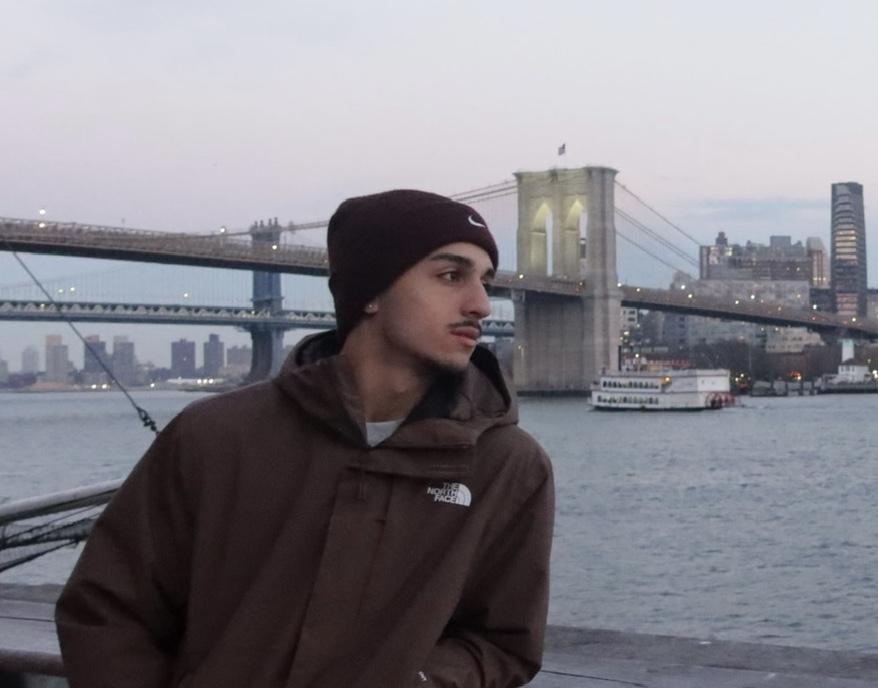
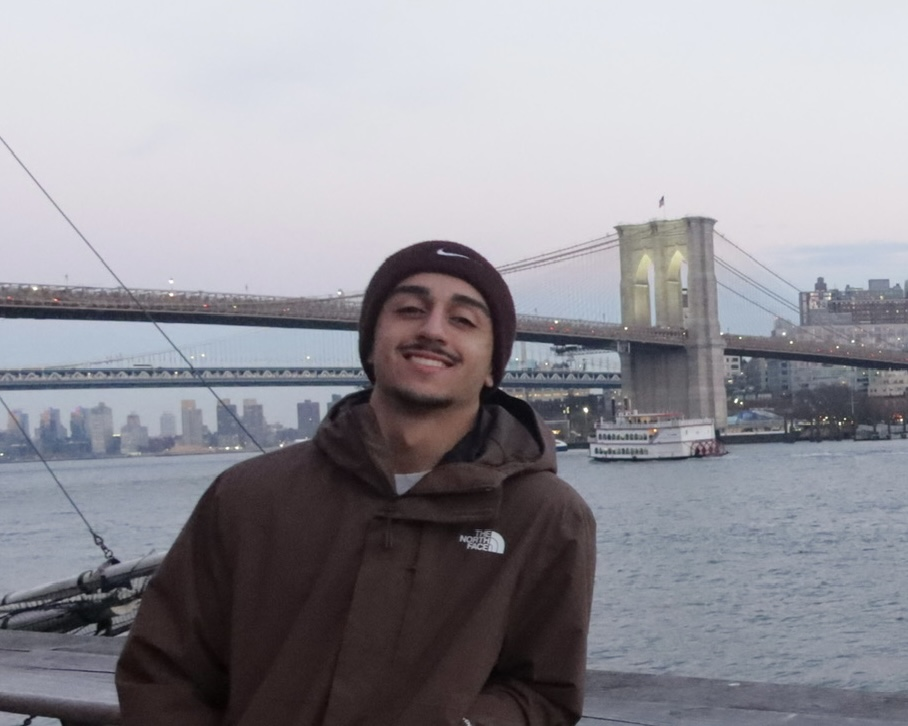
Small changes (updated Resume, portrait, and about me section)

diff --git a/src/views/AboutView.jsx b/src/views/AboutView.jsx
@@ -5,10 +5,10 @@ const AboutView = () => (
     <SectionTitle>Behind the Code</SectionTitle>
     <div className="bg-white dark:bg-gray-800 rounded-3xl shadow-2xl p-8 md:p-12 transition-colors duration-500 animate-fade-in delay-200">
       <div className="space-y-8 text-lg dark:text-gray-300 text-gray-700">
-        <p className="text-xl font-mono border-l-4 pl-4">
-          "The intelligent man is always learning, the wise man is always
-          unlearning" - <b>Joseph Nguyen</b>
+        <p className="text-xl font-mono dark:text-gray-200 text-center">
+          Live life with love
         </p>
+        <div className="pt-6 border-t dark:border-gray-700 border-gray-100 text-center"></div>
         <p>
           My core focus right now is deepening my expertise in modern web
           technologies, particularly the React ecosystem, and understanding
@@ -19,11 +19,17 @@ const AboutView = () => (
           I’m eager to learn new tools and technologies to bring creative ideas
           to life.
         </p>
-        <div className="pt-6 border-t dark:border-gray-700 border-gray-100 text-center">
-          <p className="text-xl font-mono dark:text-gray-200">
-            Live life with love
-          </p>
-        </div>
+        <p>
+          I’m studying Computer Science at the University of Kentucky and plan
+          to graduate in fall of 2026. Outside of programming, I spend most of
+          my time working out, playing the piano, and getting lost in good video
+          games or good books. I like learning new things, staying active, and
+          finding small ways to grow a little every day.
+        </p>
+        <p className="text-xl font-mono border-l-4 pl-4">
+          "The intelligent man is always learning, the wise man is always
+          unlearning" - <b>Joseph Nguyen</b>
+        </p>
       </div>
     </div>
   </div>

diff --git a/src/data/projects.js b/src/data/projects.js
@@ -15,7 +15,7 @@ export const INITIAL_PROJECTS = [
   },
   {
     id: 2,
-    title: "Modern Portfolio Site",
+    title: "My Portfolio",
     description:
       "The very site you are viewing, built with a focus on dark/light mode and modern, responsive design principles.",
     tech: ["React.js", "Tailwind CSS", "JavaScript"],
@@ -24,7 +24,7 @@ export const INITIAL_PROJECTS = [
   },
   {
     id: 3,
-    title: "Full-Stack Habit Tracker",
+    title: "Habit Tracker",
     description:
       "An application to track, analyze, and manage daily habits with RESTful APIs and modern database schema.",
     tech: ["React.js", "Python", "FastAPI", "SQL", "Tailwind CSS"],

diff --git a/src/App.jsx b/src/App.jsx
@@ -34,8 +34,6 @@ const AppContent = () => {
     setIsMenuOpen(false); // Close menu on selection
   };
 
-  // Custom styles for global animations and custom colors
-
   return (
     <div className="min-h-screen bg-gray-50 dark:bg-gray-900 transition-colors duration-500">
       {/* Main Content Area */}

diff --git a/src/components/AnimatedButton.jsx b/src/components/AnimatedButton.jsx
@@ -1,5 +1,3 @@
-import { useTheme } from "../context/ThemeContext";
-
 const AnimatedButton = ({
   children,
   onClick,
